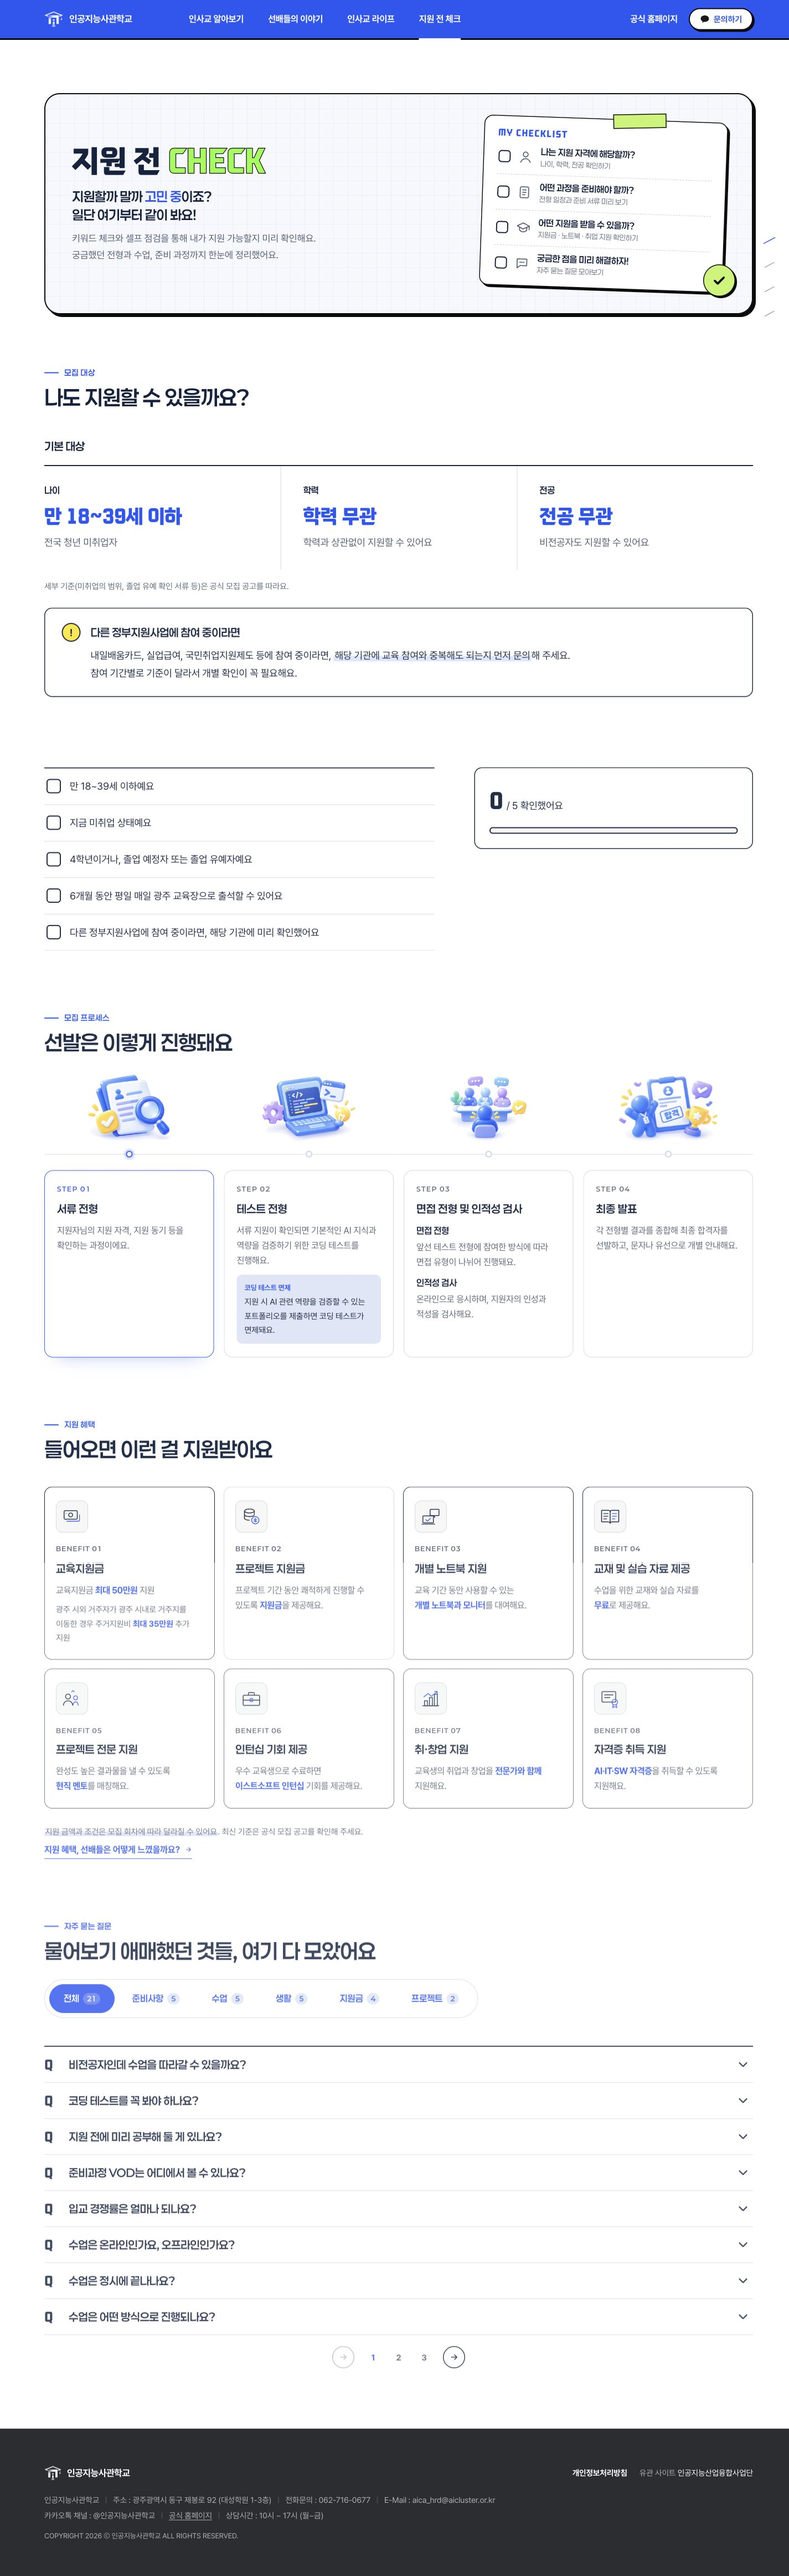
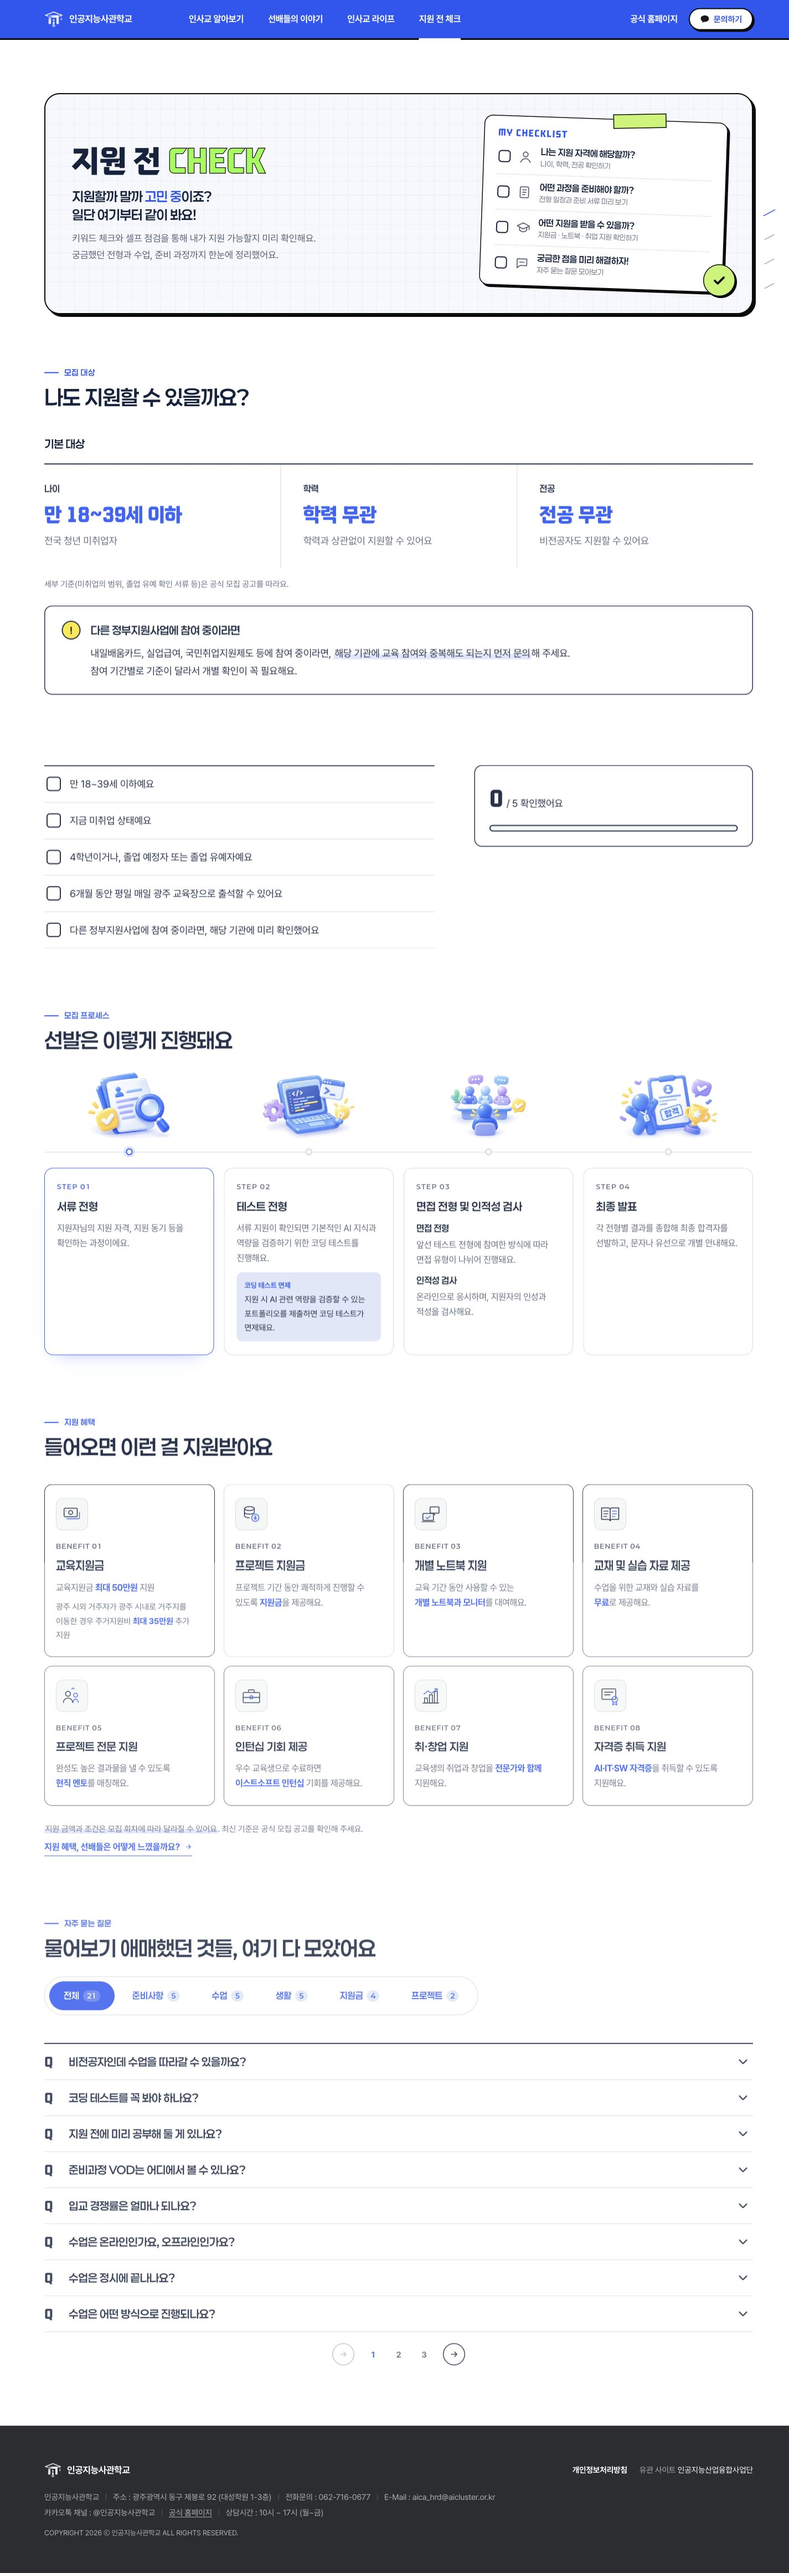
fix: separate mobile about background and preserve desktop spacing

diff --git a/check/index.html b/check/index.html
@@ -39,8 +39,8 @@
 </ul></nav>
 <section id="eligibility" class="v3-sec" aria-labelledby="h-eligibility"><div class="cm-chapter cm-only" aria-hidden="true"><span>01</span><div><small>ELIGIBILITY</small><b>모집 대상</b></div></div><div class="wrap">
   <div class="s-head k-head rv"><p class="k-label">모집 대상</p><h2 id="h-eligibility">나도 지원할 수 있을까요?</h2></div>
-  <p class="cm-caption cm-only">기본 자격을 보고, 아래에서 직접 체크해 보세요.</p>
   <h3 class="v3-h3 rv">기본 대상</h3>
+  <p class="cm-caption cm-only">기본 자격을 보고, 아래에서 직접 체크해 보세요.</p>
   <div class="chk-crit rv">
     <div><p class="chk-crit-label">나이</p><p class="chk-crit-main"><mark>만 18~39세</mark> 이하</p><p class="chk-crit-sub">전국 청년 미취업자</p></div>
     <div><p class="chk-crit-label">학력</p><p class="chk-crit-main"><mark>학력</mark> 무관</p><p class="chk-crit-sub">학력과 상관없이 지원할 수 있어요</p></div>

diff --git a/src/pages/check/index.html b/src/pages/check/index.html
@@ -38,8 +38,8 @@
 </ul></nav>
 <section id="eligibility" class="v3-sec" aria-labelledby="h-eligibility"><div class="cm-chapter cm-only" aria-hidden="true"><span>01</span><div><small>ELIGIBILITY</small><b>모집 대상</b></div></div><div class="wrap">
   <div class="s-head k-head rv"><p class="k-label">모집 대상</p><h2 id="h-eligibility">나도 지원할 수 있을까요?</h2></div>
-  <p class="cm-caption cm-only">기본 자격을 보고, 아래에서 직접 체크해 보세요.</p>
   <h3 class="v3-h3 rv">기본 대상</h3>
+  <p class="cm-caption cm-only">기본 자격을 보고, 아래에서 직접 체크해 보세요.</p>
   <div class="chk-crit rv">
     {{#each check.criteria}}{{> @view.item.template}}
     {{/each}}

diff --git a/about/css/about-m.css b/about/css/about-m.css
@@ -6,7 +6,8 @@
 .am-tabs,.am-dock,.am-ch,.am-seg,.am-more,.am-acc-h,.am-intro-photo,.am-cta,.am-arrow{display:none}
 
 @media (max-width:600px){
-  .school-about{--am-ink:#14233F;--am-muted:#566175;--am-line:#D3D9E1;--am-soft:#F5F7F6;--am-blue:#2457F5;--am-black:#0B0B0C}
+  .school-about{--about-paper:#fff;--am-ink:#14233F;--am-muted:#566175;--am-line:#D3D9E1;--am-soft:#F5F7F6;--am-blue:#2457F5;--am-black:#0B0B0C}
+  :root.school-about{background:var(--about-paper)}
 
   /* ── 히어로: 큰 제목 기준 가운데 정렬, '인사교를 알아보세요'는 오른쪽 ── */
   html.school-about main#main .hero-masthead{left:20px;right:20px;text-align:center}

diff --git a/about/index.html b/about/index.html
@@ -21,7 +21,7 @@
   <link rel="stylesheet" href="css/about.css?v=1014s">
   <link rel="stylesheet" href="../common/css/site.css?v=1016nav">
   <link rel="stylesheet" href="../common/css/unify.css?v=1014L">
-  <link rel="stylesheet" href="css/about-m.css?v=1015m">
+  <link rel="stylesheet" href="css/about-m.css?v=1016bg">
   <link rel="stylesheet" href="../common/css/navigation-mobile.css?v=1016nav">
   <script src="../common/js/menu.js" defer></script>
   <script src="../common/js/site-layout.js?v=1016nav" defer></script>

diff --git a/src/pages/about/index.html b/src/pages/about/index.html
@@ -20,7 +20,7 @@
   <link rel="stylesheet" href="css/about.css?v=1014s">
   <link rel="stylesheet" href="../common/css/site.css?v=1016nav">
   <link rel="stylesheet" href="../common/css/unify.css?v=1014L">
-  <link rel="stylesheet" href="css/about-m.css?v=1015m">
+  <link rel="stylesheet" href="css/about-m.css?v=1016bg">
   <link rel="stylesheet" href="../common/css/navigation-mobile.css?v=1016nav">
   <script src="../common/js/menu.js" defer></script>
   <script src="../common/js/site-layout.js?v=1016nav" defer></script>
